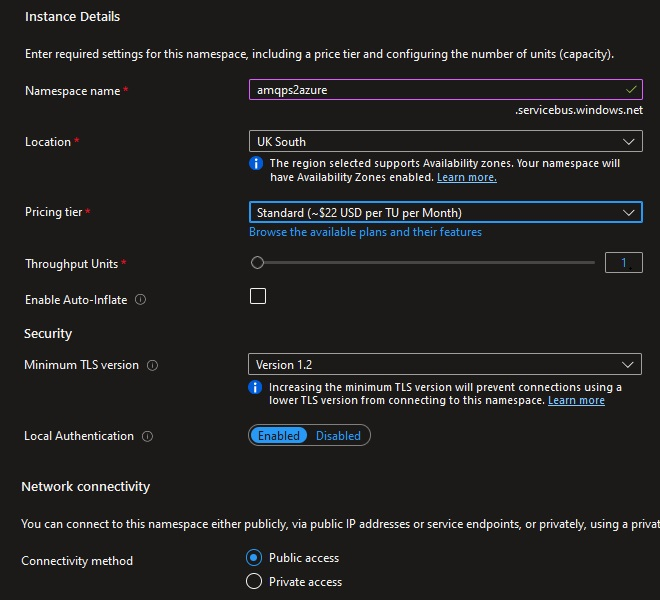
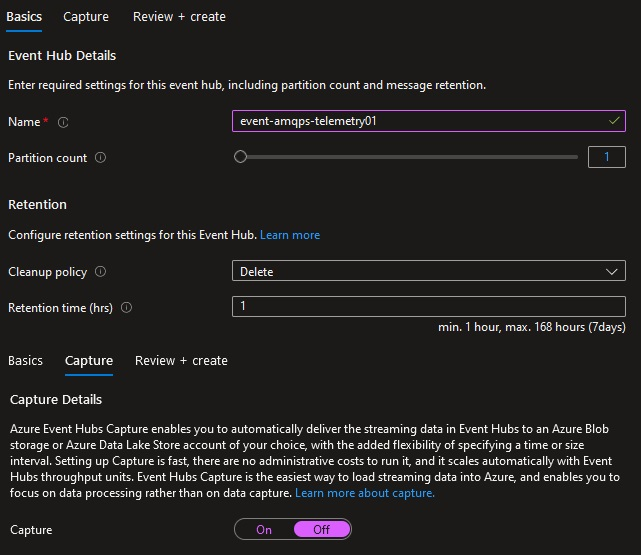
amqp2eventhub

diff --git a/eventhub/ReadmeAmqp2EventHub.md b/eventhub/ReadmeAmqp2EventHub.md
@@ -38,6 +38,11 @@ Create an event hub:
 
 https://learn.microsoft.com/en-us/azure/event-hubs/event-hubs-create
 
+Create an Event Hubs namespace: amqps2azure
+
+![Event Hub ](https://github.com/spawnmarvel/quickguides/blob/main/eventhub/images/eventhubnamespace.jpg)
+
+Create an event hub: event-amqps-telemetry01
 
 ![Event Hub ](https://github.com/spawnmarvel/quickguides/blob/main/eventhub/images/eventhub.jpg)
 
